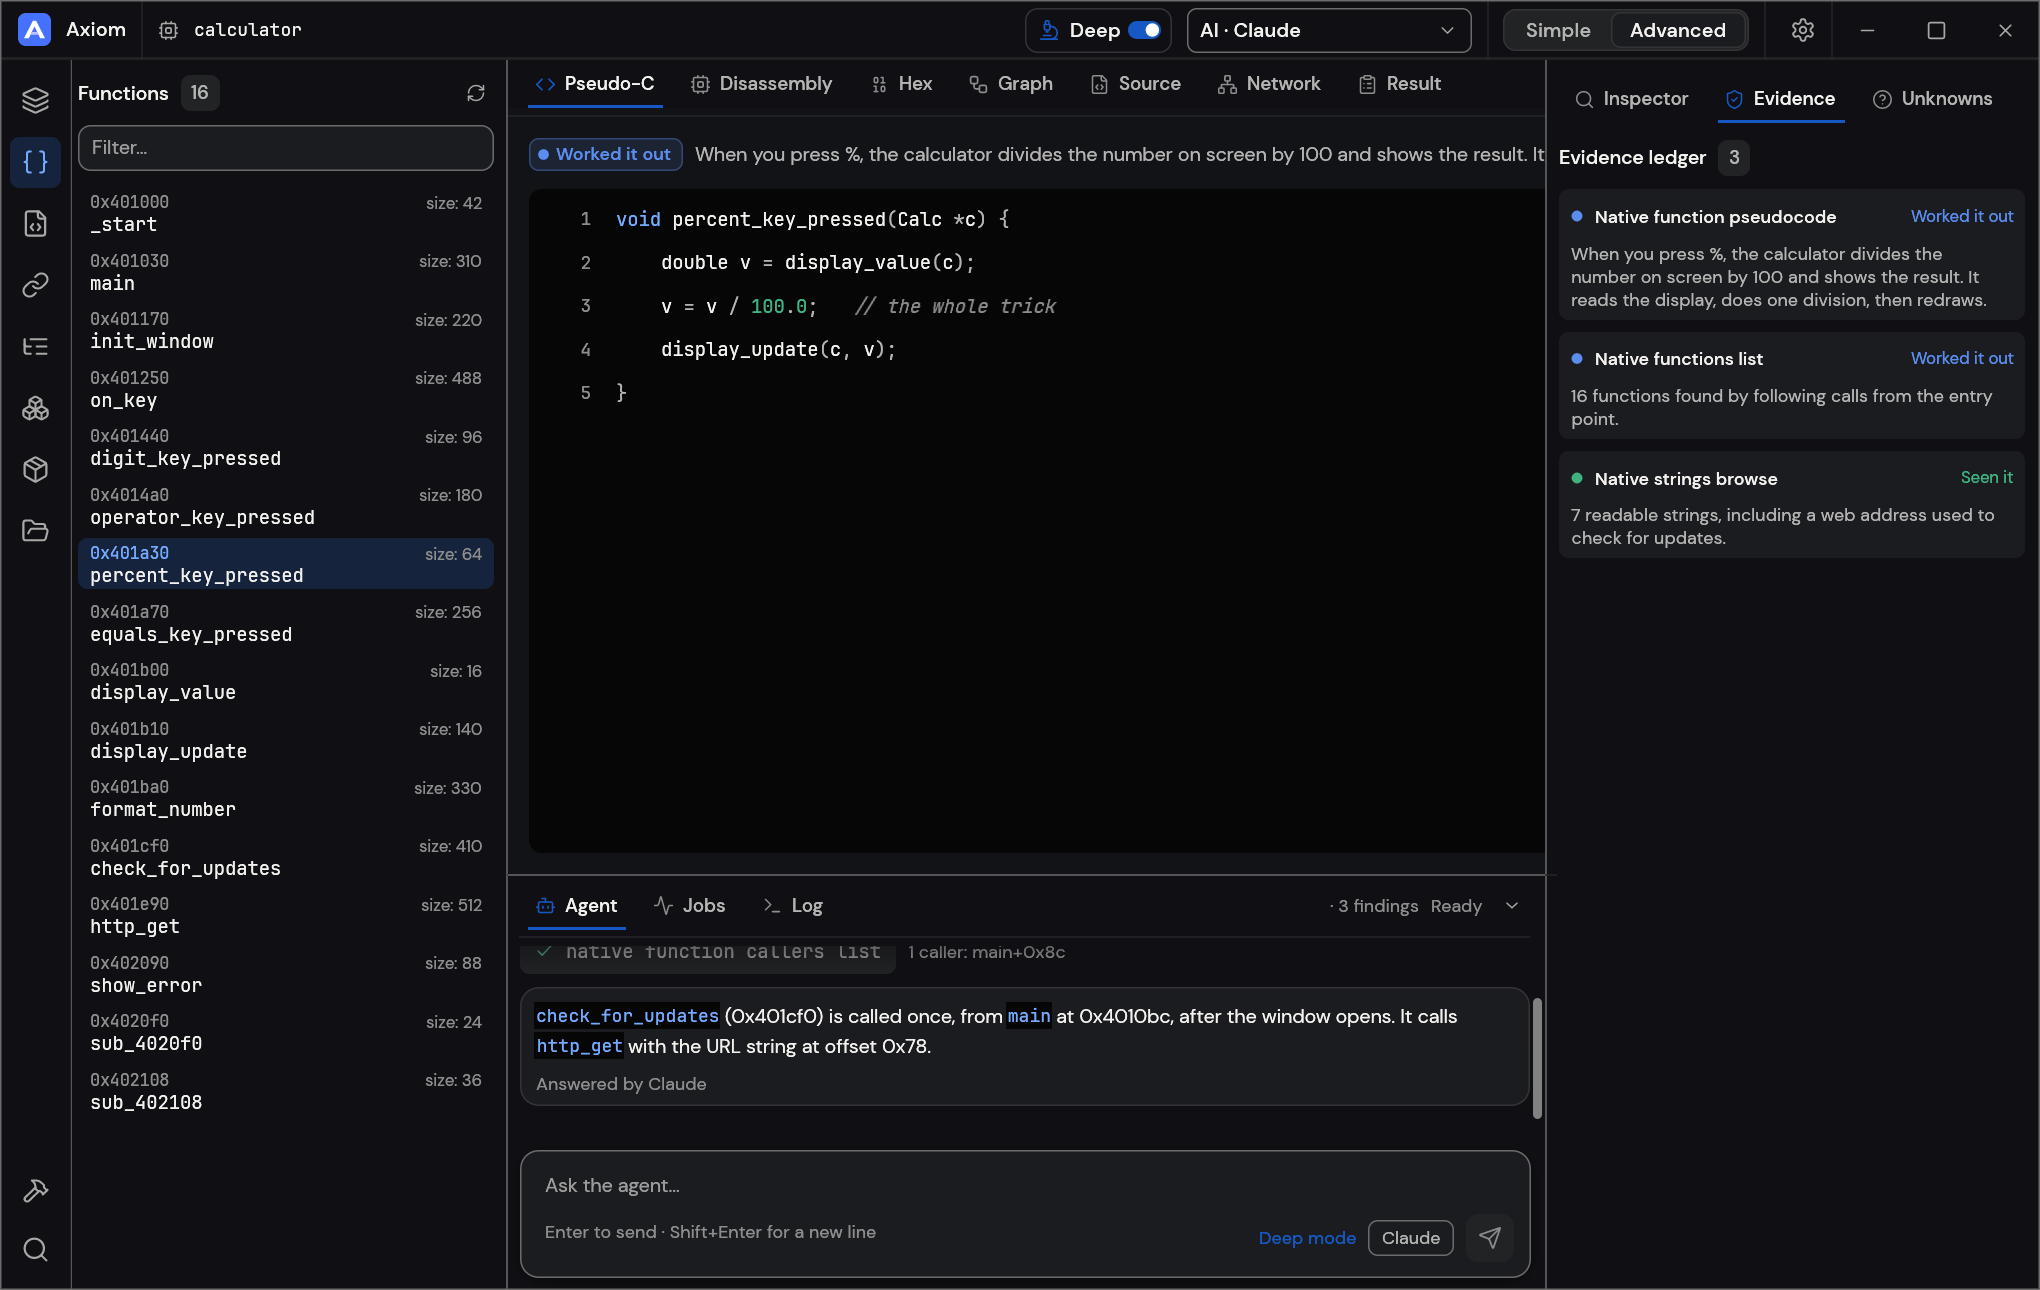
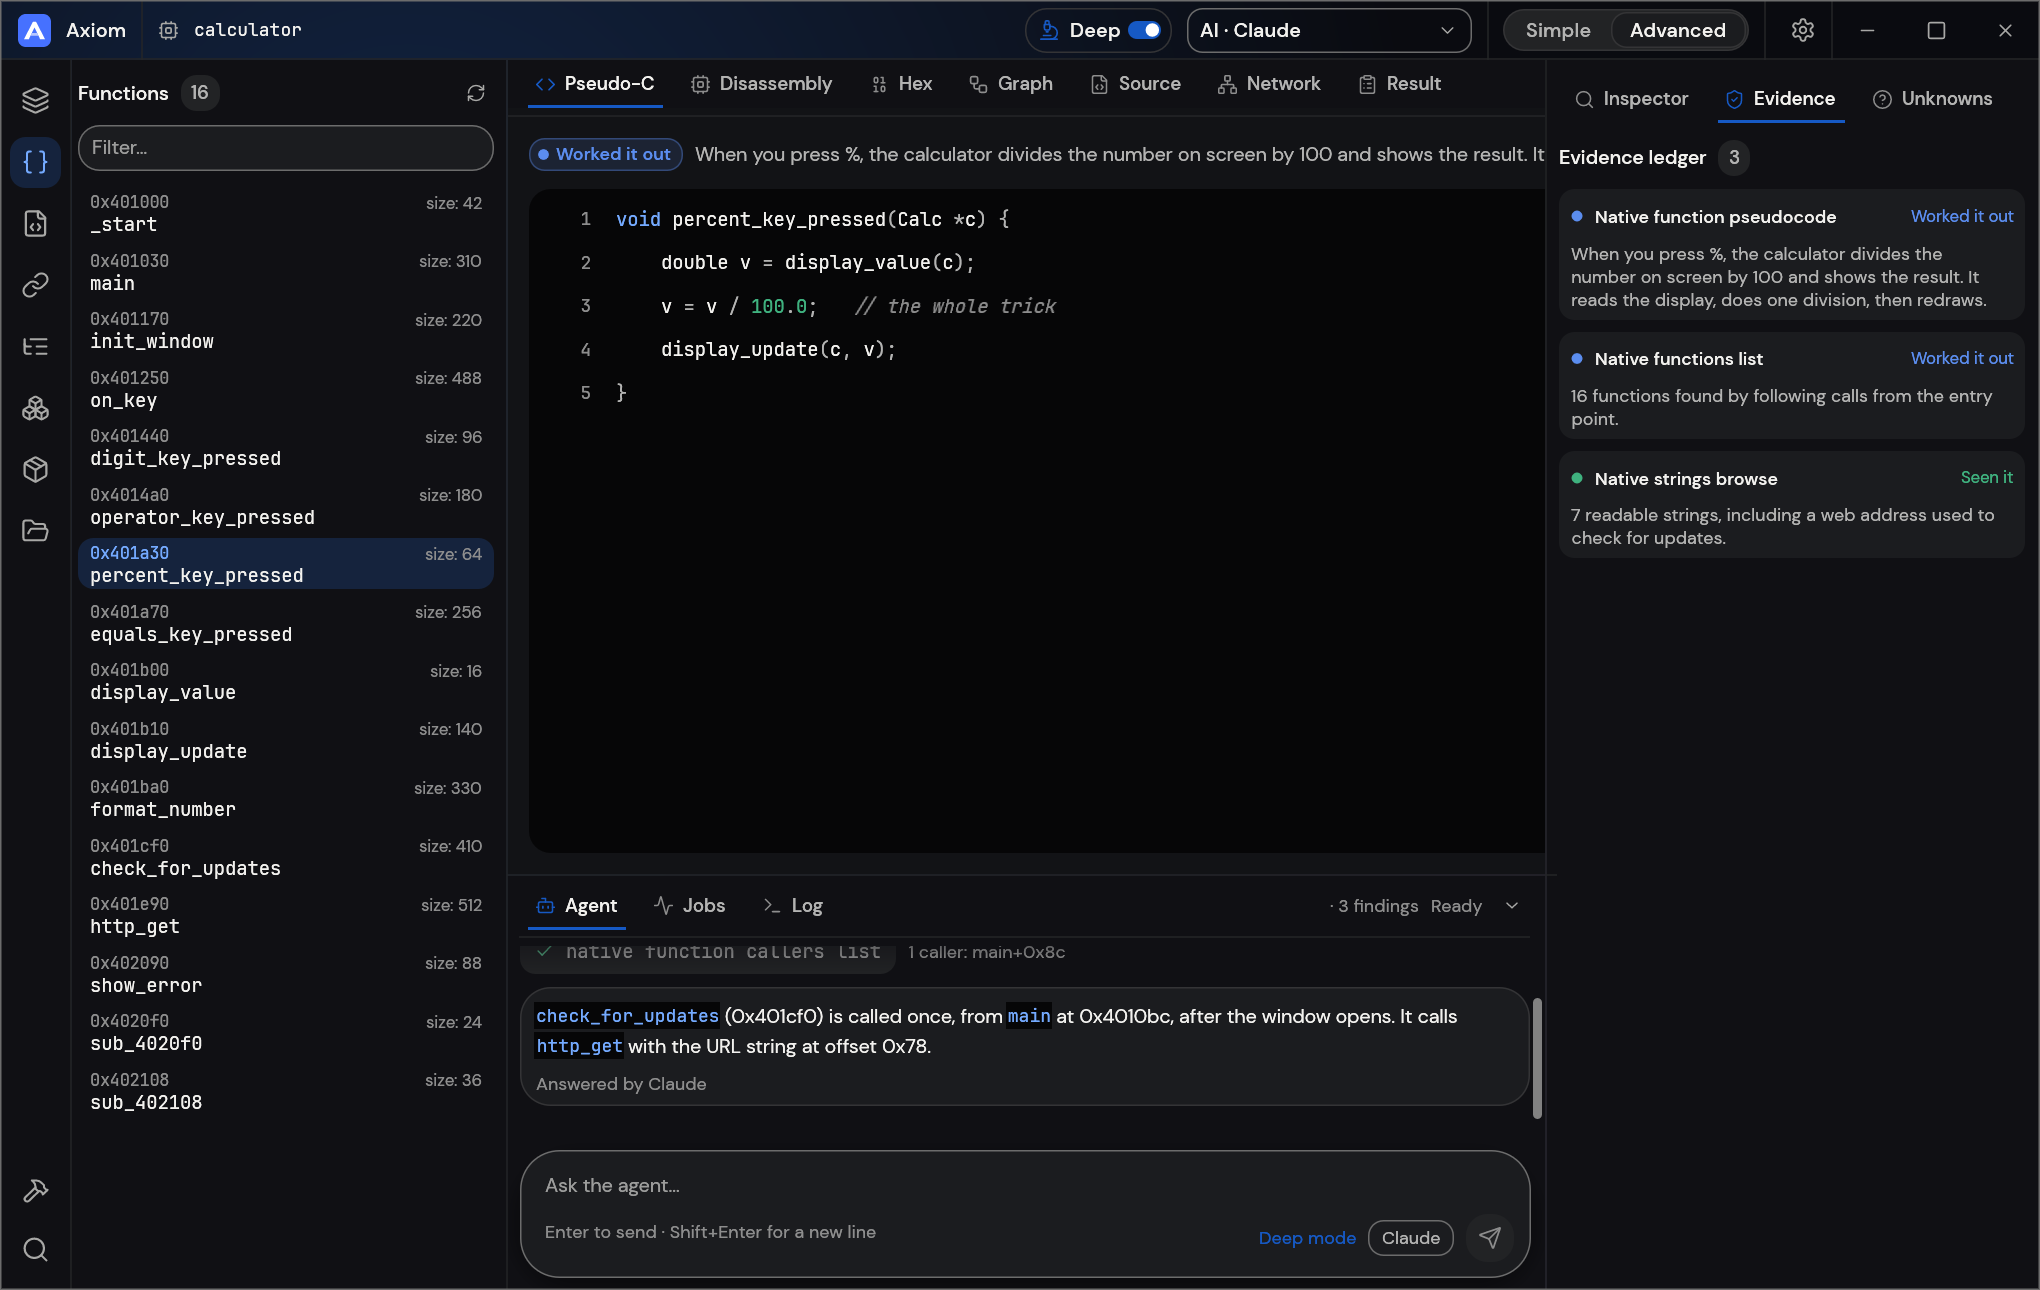
Rounder composer and fresh screenshots for the glass look
Claude-Session: https://claude.ai/code/session_018KH1JEkwgxD1gyRQf1tjkd

Changed region(s): [[0.0, 0.0, 0.4015, 0.062], [0.2471, 0.9612, 0.2779, 0.9922]]

diff --git a/crates/ui-egui/src/prompt_box.rs b/crates/ui-egui/src/prompt_box.rs
@@ -124,8 +124,8 @@ pub fn show(ui: &mut Ui, text: &mut String, attachments: &[PathBuf], b: PromptBo
     let frame = egui::Frame::new()
         .fill(t.card)
         .stroke(stroke)
-        .corner_radius(t.r_lg())
-        .shadow(egui::Shadow { offset: [0, 2], blur: 12, spread: 0, color: t.shadow })
+        .corner_radius(egui::CornerRadius::same(26))
+        .shadow(egui::Shadow { offset: [0, 6], blur: 24, spread: 0, color: t.shadow })
         .inner_margin(Margin { left: 16, right: 10, top: 14, bottom: 10 });
     // Stacked top to bottom whatever the caller's layout (it's often placed in a row).
     frame.show(ui, |ui| {
